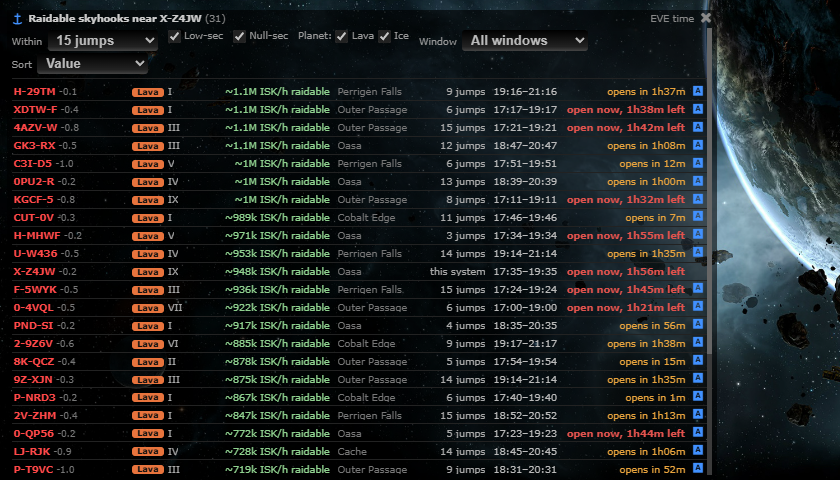
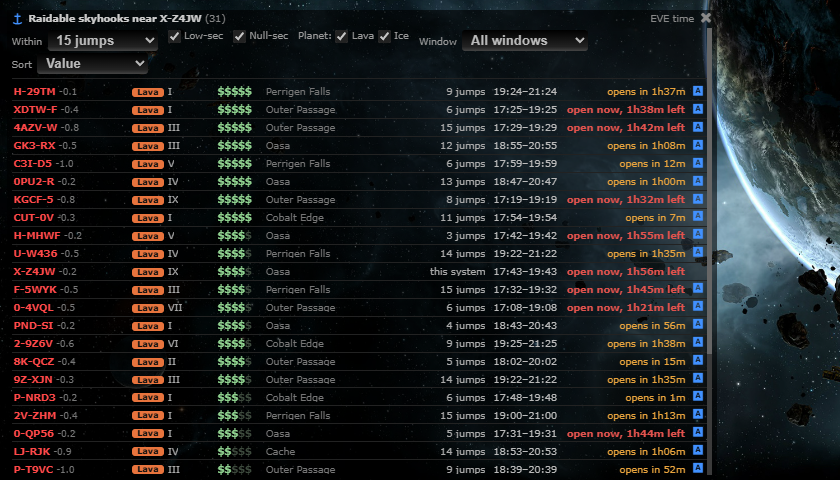
Skyhooks: value rating of $ to $$$$$ instead of ISK/h on the row

diff --git a/app/js/fork/skyhooks-panel.js b/app/js/fork/skyhooks-panel.js
@@ -138,10 +138,10 @@ const skyhooksPanel = {
 	A planet the list doesn't know (or no list yet) is "unknown": never hidden by the Planet filter.
 	@param planets the parsed planets.json (null while it isn't loaded) */
 	planetInfo: function(planets, planetID, systemName) {
-		if (!planets || typeof planets !== "object" || !planets.planets) { return { kind: "unknown", name: "", number: "", reagent: "", perHour: 0, isk: 0 }; }
+		if (!planets || typeof planets !== "object" || !planets.planets) { return { kind: "unknown", name: "", number: "", reagent: "", perHour: 0, isk: 0, cuts: null }; }
 		const p = planets.planets[planetID];
 		const reagent = p && planets.reagents ? planets.reagents[p[0]] : null;
-		if (!p || !reagent || (p[0] !== 1 && p[0] !== 2)) { return { kind: "unknown", name: "", number: "", reagent: "", perHour: 0, isk: 0 }; }
+		if (!p || !reagent || (p[0] !== 1 && p[0] !== 2)) { return { kind: "unknown", name: "", number: "", reagent: "", perHour: 0, isk: 0, cuts: null }; }
 		const perHour = Number(p[1]) || 0;
 		const numeral = skyhooksPanel.roman(p[2]);
 		return {
@@ -150,8 +150,29 @@ const skyhooksPanel = {
 			number: numeral,
 			reagent: String(reagent.name || ""),
 			perHour: perHour,
-			isk: perHour * (Number(reagent.price) || 0)
+			isk: perHour * (Number(reagent.price) || 0),
+			cuts: Array.isArray(planets.lavaCuts) ? planets.lavaCuts : null
 		};
+	},
+
+	/** Value rating 1-5 of a planetInfo() result, 0 = none: ice = 1; lava = 2-5 by quartile of the raidable ISK/h (half of
+	isk) of ALL lava planets, using the 3 cut points the generator stores in planets.json (`lavaCuts`, raidable ISK/h), so
+	it doesn't depend on which skyhooks are live; an unknown planet, or lava without cut points, has no rating. */
+	valueRating: function(planet) {
+		if (!planet) { return 0; }
+		if (planet.kind === "ice") { return 1; }
+		if (planet.kind !== "lava") { return 0; }
+		const cuts = planet.cuts;
+		if (!Array.isArray(cuts) || cuts.length !== 3 || !cuts.every(function(c) { return isFinite(Number(c)); })) { return 0; }
+		const raidable = planet.isk / 2;
+		return 2 + cuts.filter(function(c) { return raidable >= Number(c); }).length;
+	},
+
+	/** "$$$$" with the unearned ones of 5 dimmed; fixed width. "" for no rating. */
+	ratingHtml: function(rating) {
+		const n = Math.max(0, Math.min(5, Math.floor(Number(rating) || 0)));
+		if (!n) { return ""; }
+		return "<b class='sky-dollar-on'>" + new Array(n + 1).join("$") + "</b><b class='sky-dollar-off'>" + new Array(6 - n).join("$") + "</b>";
 	},
 
 	/** Whether a planet kind passes the lava / ice checkboxes (an unknown planet: always) */
@@ -470,8 +491,9 @@ if (typeof window !== "undefined" && typeof document !== "undefined" && typeof j
 			const badge = pl.kind === "lava" || pl.kind === "ice"
 				? "<span class='sky-planet sky-planet-" + pl.kind + "' title='" + esc((pl.kind === "lava" ? "Lava" : "Ice") + " planet: " + pl.reagent + ", " + pl.perHour.toLocaleString("en-US") + " units/hour. About half of it sits in the raidable surplus bay.") + "'>" + (pl.kind === "lava" ? "Lava" : "Ice") + "</span>"
 				: "";
-			const value = pl.isk > 0
-				? "<span class='sky-value' title='" + esc(pl.reagent + ": " + pl.perHour.toLocaleString("en-US") + " units/hour at about " + sp.formatIsk(pl.isk / pl.perHour) + " ISK each. The whole planet makes about " + sp.formatIsk(pl.isk) + " ISK/h; half of it goes to the raidable surplus bay. Estimate: CCP average price, SDE yield.") + "'>~" + esc(sp.formatIsk(pl.isk / 2)) + " ISK/h raidable</span>"
+			const rating = sp.valueRating(pl);
+			const value = rating > 0
+				? "<span class='sky-value' aria-label='Value " + rating + " of 5' title='" + esc("Value " + rating + "/5 \u2014 ~" + sp.formatIsk(pl.isk / 2) + " ISK/h raidable (estimate: CCP average price, SDE yield). " + pl.reagent + ": " + pl.perHour.toLocaleString("en-US") + " units/hour at about " + sp.formatIsk(pl.isk / pl.perHour) + " ISK each; the whole planet makes about " + sp.formatIsk(pl.isk) + " ISK/h and half of it goes to the raidable surplus bay.") + "'>" + sp.ratingHtml(rating) + "</span>"
 				: "<span class='sky-value'></span>";
 			return "<li class='sky-row sky-" + st.state + "' data-systemid='" + esc(r.skyhook.systemID) + "' data-planet='" + esc(r.skyhook.planetID) + "'>"
 				+ "<span class='sky-system'><a class='" + esc(sys.systemTypeClass) + "' href='.?system=" + esc(encodeURIComponent(sys.name)) + "' title='View " + esc(sys.name) + "'>" + esc(sys.name || r.skyhook.systemID) + "</a>"

diff --git a/app/js-test/fork/skyhooks-panel.test.js b/app/js-test/fork/skyhooks-panel.test.js
@@ -302,6 +302,7 @@ describe('Skyhooks panel', () => {
 		// [kind (1 lava, 2 ice), reagent units per hour, planet number]
 		const planets = {
 			reagents: { 1: { name: 'Magmatic Gas', price: 2000 }, 2: { name: 'Superionic Ice', price: 5000 } },
+			lavaCuts: [900000, 1100000, 1300000],	// raidable ISK/h quartile cut points
 			planets: { 100: [1, 1000, 4], 101: [2, 40, 9], 102: [1, 700, 12] }
 		};
 		const info = (id, name) => skyhooksPanel.planetInfo(planets, id, name);
@@ -314,7 +315,7 @@ describe('Skyhooks panel', () => {
 			assert.equal(skyhooksPanel.roman('x'), '');
 		});
 		it('lava planet: name, reagent, yield and value', () => {
-			assert.deepEqual(info(100, 'K4YZ-Y'), { kind: 'lava', name: 'K4YZ-Y IV', number: 'IV', reagent: 'Magmatic Gas', perHour: 1000, isk: 2000000 });
+			assert.deepEqual(info(100, 'K4YZ-Y'), { kind: 'lava', name: 'K4YZ-Y IV', number: 'IV', reagent: 'Magmatic Gas', perHour: 1000, isk: 2000000, cuts: [900000, 1100000, 1300000] });
 		});
 		it('ice planet', () => {
 			const i = info(101, 'Tama');
@@ -323,7 +324,7 @@ describe('Skyhooks panel', () => {
 			assert.equal(i.isk, 200000);
 		});
 		it('no system name: no planet name', () => assert.equal(info(100).name, ''));
-		it('a planet that is not in the list is unknown', () => assert.deepEqual(info(999, 'X'), { kind: 'unknown', name: '', number: '', reagent: '', perHour: 0, isk: 0 }));
+		it('a planet that is not in the list is unknown', () => assert.deepEqual(info(999, 'X'), { kind: 'unknown', name: '', number: '', reagent: '', perHour: 0, isk: 0, cuts: null }));
 		it('data not loaded: unknown', () => {
 			assert.equal(skyhooksPanel.planetInfo(null, 100, 'X').kind, 'unknown');
 			assert.equal(skyhooksPanel.planetInfo({}, 100, 'X').kind, 'unknown');
@@ -336,6 +337,31 @@ describe('Skyhooks panel', () => {
 			assert.equal(skyhooksPanel.planetPasses('ice', S({ ice: false })), false);
 		});
 		it('unknown planet kind is never hidden (list not loaded yet)', () => assert.equal(skyhooksPanel.planetPasses('unknown', S({ lava: false, ice: false })), true));
+		describe('value rating', () => {
+			// raidable ISK/h = perHour x price / 2: 1000 -> 1,000,000 ; cuts 900k / 1.1M / 1.3M
+			const lava = perHour => skyhooksPanel.planetInfo({ reagents: planets.reagents, lavaCuts: planets.lavaCuts, planets: { 1: [1, perHour, 1] } }, 1, 'X');
+			it('ice is always 1', () => assert.equal(skyhooksPanel.valueRating(info(101, 'X')), 1));
+			it('lava 2 to 5 by the cut points (not below a cut = next rating)', () => {
+				assert.equal(skyhooksPanel.valueRating(lava(800)), 2);
+				assert.equal(skyhooksPanel.valueRating(lava(1000)), 3);
+				assert.equal(skyhooksPanel.valueRating(lava(1200)), 4);
+				assert.equal(skyhooksPanel.valueRating(lava(1400)), 5);
+			});
+			it('exactly on a cut point rounds up', () => assert.equal(skyhooksPanel.valueRating(lava(900)), 3));
+			it('unknown planet: no rating', () => {
+				assert.equal(skyhooksPanel.valueRating(info(999, 'X')), 0);
+				assert.equal(skyhooksPanel.valueRating(null), 0);
+			});
+			it('lava without cut points: no rating', () => assert.equal(skyhooksPanel.valueRating({ kind: 'lava', isk: 1e6, cuts: null }), 0));
+			it('same rating whichever hooks are live (depends on the planet only)', () => assert.equal(skyhooksPanel.valueRating(info(100, 'A')), skyhooksPanel.valueRating(info(100, 'B'))));
+			it('rating text: earned and dimmed dollar signs, always 5', () => {
+				assert.equal(skyhooksPanel.ratingHtml(4), "<b class='sky-dollar-on'>$$$$</b><b class='sky-dollar-off'>$</b>");
+				assert.equal(skyhooksPanel.ratingHtml(5), "<b class='sky-dollar-on'>$$$$$</b><b class='sky-dollar-off'></b>");
+				assert.equal(skyhooksPanel.ratingHtml(1), "<b class='sky-dollar-on'>$</b><b class='sky-dollar-off'>$$$$</b>");
+				assert.equal(skyhooksPanel.ratingHtml(0), '');
+				assert.equal(skyhooksPanel.ratingHtml(9), skyhooksPanel.ratingHtml(5));
+			});
+		});
 		it('formatIsk', () => {
 			assert.equal(skyhooksPanel.formatIsk(2100000), '2.1M');
 			assert.equal(skyhooksPanel.formatIsk(177000), '177k');

diff --git a/app/js-test/fork/skyhooks-planets-data.test.js b/app/js-test/fork/skyhooks-planets-data.test.js
@@ -12,6 +12,11 @@ describe('Skyhook planet data (generated file)', () => {
 		assert.equal(data.reagents[2].name, 'Superionic Ice');
 		assert.ok(data.reagents[1].price > 0 && data.reagents[2].price > 0);
 	});
+	it('has 3 ascending lava rating cut points (raidable ISK/h) and the SDE build', () => {
+		assert.equal(data.lavaCuts.length, 3);
+		assert.ok(data.lavaCuts[0] > 0 && data.lavaCuts[0] < data.lavaCuts[1] && data.lavaCuts[1] < data.lavaCuts[2]);
+		assert.ok(/^\d+$/.test(data.sde));
+	});
 	it('has thousands of planets, each [kind, units per hour, planet number]', () => {
 		assert.ok(entries.length > 3000);
 		entries.forEach(([id, p]) => {

diff --git a/app/css/fork/skyhooks-panel.css b/app/css/fork/skyhooks-panel.css
@@ -206,7 +206,16 @@
 
 #skyhooksWidget .sky-value {
 	flex: 0 0 auto;
-	min-width: 112px;
-	text-align: right;
+	min-width: 4.2em;
+	text-align: left;
+	font-weight: normal;
+	white-space: nowrap;
+}
+
+#skyhooksWidget .sky-dollar-on {
 	color: #8fd18f;
+}
+
+#skyhooksWidget .sky-dollar-off {
+	color: #3d4a3d;
 }

diff --git a/changes/2026-10-11-skyhooks-planet-value/README.md b/changes/2026-10-11-skyhooks-planet-value/README.md
@@ -5,8 +5,8 @@
 ## Description
 
 Each row of the Raidable skyhooks box now says whether the planet is lava or ice (a coloured badge with the word in it),
-shows the planet's name, and the estimated ISK per hour that is raidable ("~1.1M ISK/h raidable": half of what the planet
-produces, the surplus bay). New "Planet" checkboxes (Lava, Ice) filter the list and "Value" is a new sort. Stacked on PR #67 (`feature/rolling-followups`).
+shows the planet's number, and a value rating of $ to $$$$$ (unearned signs dimmed; the tooltip has "Value 4/5 - ~1.1M ISK/h
+raidable", half of what the planet produces, the surplus bay). New "Planet" checkboxes (Lava, Ice) filter the list and "Value" is a new sort. Stacked on PR #67 (`feature/rolling-followups`).
 
 ## Before / After
 
@@ -15,7 +15,7 @@ produces, the surplus bay). New "Planet" checkboxes (Lava, Ice) filter the list 
 | ![before](before.png) | ![after](after.png) |
 
 (Same stubbed list of 81 live skyhooks, 30 jumps from X-Z4JW, sorted by jumps. After: Lava / Ice badge, planet name and
-"ISK/h raidable" on every row, and the Planet checkboxes and Value sort in the box header.)
+the $ rating on every row, and the Planet checkboxes and Value sort in the box header.)
 
 ## Settings
 
@@ -36,14 +36,16 @@ default on; `sort: "value"`); Reset deletes them with the rest.
   `node tools/fork/build-skyhook-planets.mjs <dir with planetResources.jsonl + mapPlanets.jsonl> 2031.68 5208.25 3586130 2026-10-11 > public/skyhooks-data/planets.json`.
   Planet name = system name + roman planet number (so "K4YZ-Y IV", as ESI gives).
 - **Panel** (`app/js/fork/skyhooks-panel.js`, `.css`): planet badge (Lava orange / Ice blue, text as well as colour),
-  planet name (ellipsis when long), `~X ISK/h raidable` (hover: reagent, units per hour, price, whole-planet figure, "estimate:
-  CCP average price, SDE yield"). Planet filter checkboxes (Lava, Ice), sort "Value" (highest first, by the same figure).
+  planet number, the rating (hover: "Value N/5 - ~X ISK/h raidable (estimate: CCP average price, SDE yield)", reagent, units
+  per hour, price, whole-planet figure). Planet filter checkboxes (Lava, Ice), sort "Value" (highest first, by the same figure).
   A planet missing from the file (none of the 202 live skyhooks) is "unknown": no badge or value and never hidden by the
   Planet filter (so there is no "Other" checkbox). While the file isn't loaded rows show no planet details and the filter is
   skipped; if it can't be loaded the box says so in one line. When the Planet filter hides everything the empty-state text
   says so. At the box's minimum size the row scrolls horizontally like before (the box content already did).
-- **Value = units per hour x price**; the row shows half of it (the planet's whole production is split between the secure
-  bay and the raidable surplus bay).
+- **Value = units per hour x price / 2** (the planet's production is split between the secure bay and the raidable surplus
+  bay). **Rating** (`skyhooksPanel.valueRating`): ice = 1; lava = 2-5 by quartiles of that raidable ISK/h over ALL 2,337 lava
+  planets, with the 3 cut points stored in planets.json (`lavaCuts`, 752,737 / 870,575 / 987,396 ISK/h), so a planet's
+  rating never depends on which skyhooks are live; an unknown planet has no rating. The Value sort still orders by ISK/h.
   The price is a fixed rough number baked into the file (CCP's `average_price` from `GET /markets/prices` on 2026-10-11:
   Magmatic Gas 2,032 ISK, Superionic Ice 5,208 ISK). Regenerate the file to refresh.
 - **Tests**: `app/js-test/fork/skyhooks-panel.test.js` (planet info, roman numerals, filters, defaults, value sort, data

diff --git a/changes/README.md b/changes/README.md
@@ -5,7 +5,7 @@ Every change to this fork gets an entry here. See [AGENTS.md](../AGENTS.md) for 
 
 | Date | Feature | Summary |
 | --- | --- | --- |
-| 2026-10-11 | [Skyhook raids: lava or ice, and value](2026-10-11-skyhooks-planet-value/README.md) | Raidable skyhooks rows show lava/ice badge, planet number and estimated raidable ISK/h (surplus bay) from SDE planet data (generated `public/skyhooks-data/planets.json`, `tools/fork/build-skyhook-planets.mjs`), Planet lava/ice filter and Value sort; no ESI calls, no new Settings row |
+| 2026-10-11 | [Skyhook raids: lava or ice, and value](2026-10-11-skyhooks-planet-value/README.md) | Raidable skyhooks rows show lava/ice badge, planet number and a $ to $$$$$ value rating (estimated raidable ISK/h in the tooltip) from SDE planet data (generated `public/skyhooks-data/planets.json`, `tools/fork/build-skyhook-planets.mjs`), Planet lava/ice filter and Value sort; no ESI calls, no new Settings row |
 | 2026-10-11 | [How to roll this hole](2026-10-11-rolling-followups/README.md) | Mass dialog recommends how to roll a hole (numbered passes for battleship or medium rollers from Settings > Wormhole Jumps & Mass > Roller ships, each safe / may collapse / will collapse, never an outbound pass that may strand the roller), coloured ship buttons, Total/Left columns in the jump log, live refresh every 10 s, passes on the rolling marker tooltip; "Rolled (closed)" edits the rolling Discord message to "Rolled by X", a flagged hole that disappears says "Hole closed (rolling by X)" |
 | 2026-10-11 | [Raidable skyhooks](2026-10-11-raidable-skyhooks/README.md) | Skyhook icon on low-sec / null-sec systems of the chain map (like the Jump planner's ring; clicking such a system's name opens it too) opens a closable, movable box "Raidable skyhooks near <system>": raidable skyhooks within N gate jumps of that system (system, region, jumps, theft window in EVE time with countdown, Set route in game) with options for distance, low/null-sec, window and sort; server-wide cache of ESI `/skyhooks/raidable` (public, compat date 2026-10-01) refreshed at most every 5 min under a lock (`public/skyhooks.php`, `skyhooks.inc.php`), browsers never call ESI; Settings > Routes & Navigation |
 | 2026-10-11 | [Route filters on hole state](2026-10-11-route-hole-filters/README.md) | Favourites, Destinations and Fight here routes avoid EOL, critical-mass, too-small, preserve-mass and being-rolled holes (`app/js/fork/route-hole-filters.js`, `registerFlag` API); never a dead end: the route with the fewest bad hops is used with those hops ringed and a note; per-session One-way switch allows EOL/crit; no bubbled flag (Tripwire has none); Settings > Routes & Navigation > Routes avoid |
